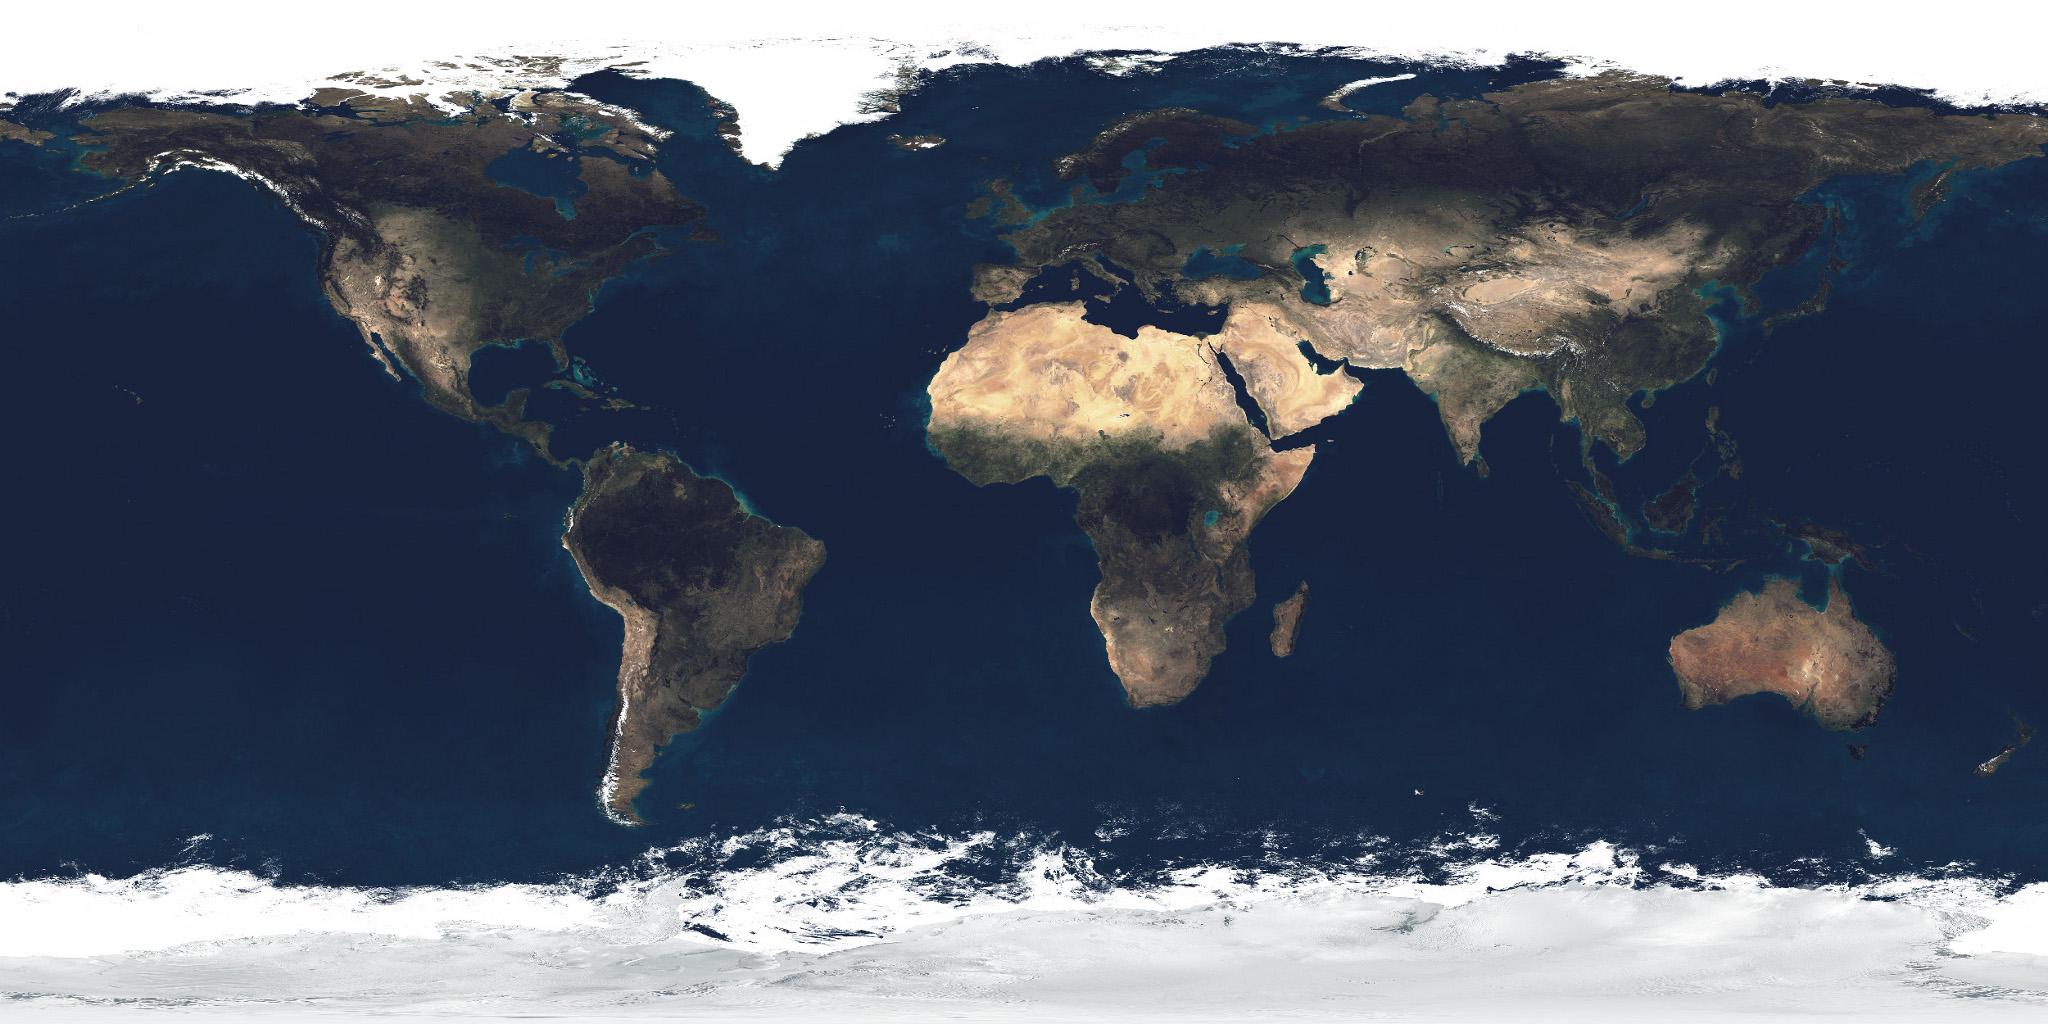
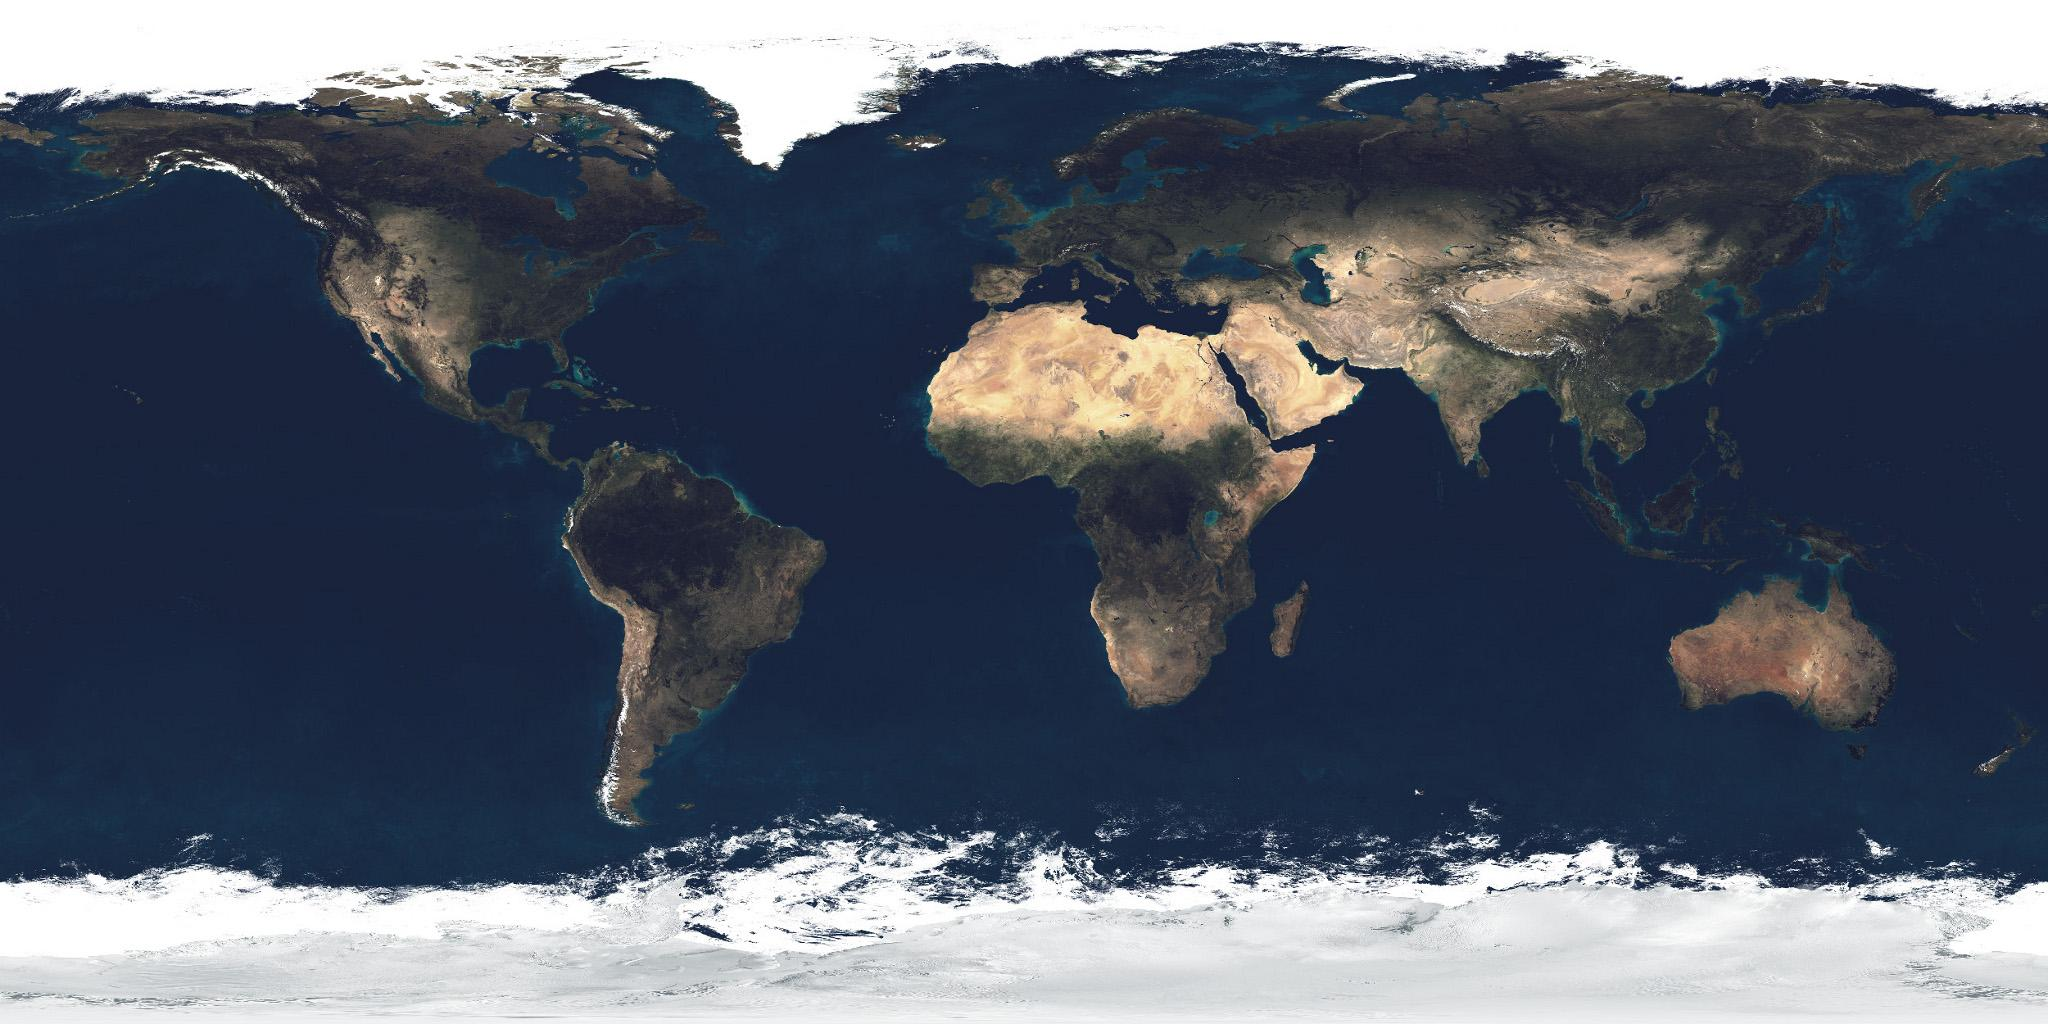
fix: instant 0ms procedural fallback texture, progressive NASA 2K satellite swap, and texture asset preloads

diff --git a/client/src/components/ui/InteractiveGlobe.tsx b/client/src/components/ui/InteractiveGlobe.tsx
@@ -52,6 +52,144 @@ function latLonToVector3(lat: number, lon: number, radius: number): THREE.Vector
   return new THREE.Vector3(x, y, z);
 }
 
+// Generate 0ms Instant Procedural Earth Canvas Texture (Frame 0 display - never an empty dark sphere!)
+function createInstantProceduralEarthTexture(): THREE.CanvasTexture {
+  const canvas = document.createElement('canvas');
+  canvas.width = 1024;
+  canvas.height = 512;
+  const ctx = canvas.getContext('2d')!;
+
+  // 1. Deep Ocean Base Gradient
+  const oceanGrad = ctx.createLinearGradient(0, 0, 0, 512);
+  oceanGrad.addColorStop(0, '#041226');
+  oceanGrad.addColorStop(0.5, '#082548');
+  oceanGrad.addColorStop(1, '#041226');
+  ctx.fillStyle = oceanGrad;
+  ctx.fillRect(0, 0, 1024, 512);
+
+  // 2. Latitude & Longitude Coordinate Graticule Grid
+  ctx.strokeStyle = 'rgba(56, 189, 248, 0.16)';
+  ctx.lineWidth = 1;
+  for (let x = 0; x <= 1024; x += 1024 / 12) {
+    ctx.beginPath();
+    ctx.moveTo(x, 0);
+    ctx.lineTo(x, 512);
+    ctx.stroke();
+  }
+  for (let y = 0; y <= 512; y += 512 / 12) {
+    ctx.beginPath();
+    ctx.moveTo(0, y);
+    ctx.lineTo(1024, y);
+    ctx.stroke();
+  }
+
+  // Equator & Prime Meridian highlight
+  ctx.strokeStyle = 'rgba(56, 189, 248, 0.35)';
+  ctx.lineWidth = 1.5;
+  ctx.beginPath();
+  ctx.moveTo(0, 256);
+  ctx.lineTo(1024, 256);
+  ctx.stroke();
+
+  // 3. Vector Continents
+  ctx.fillStyle = 'rgba(16, 185, 129, 0.32)';
+  ctx.strokeStyle = 'rgba(52, 211, 153, 0.75)';
+  ctx.lineWidth = 1.8;
+
+  // Eurasia & India Subcontinent
+  ctx.beginPath();
+  ctx.moveTo(490, 160);
+  ctx.lineTo(520, 130);
+  ctx.lineTo(590, 110);
+  ctx.lineTo(720, 100);
+  ctx.lineTo(840, 110);
+  ctx.lineTo(870, 150);
+  ctx.lineTo(840, 180);
+  ctx.lineTo(810, 230);
+  ctx.lineTo(765, 270);
+  ctx.lineTo(735, 240); // Bay of Bengal / India East
+  ctx.lineTo(753, 183); // Patna / Bihar / Himalayas
+  ctx.lineTo(715, 225); // Gujarat / India West
+  ctx.lineTo(665, 215); // Arabian Peninsula
+  ctx.lineTo(610, 190);
+  ctx.closePath();
+  ctx.fill();
+  ctx.stroke();
+
+  // Africa
+  ctx.beginPath();
+  ctx.moveTo(490, 210);
+  ctx.lineTo(590, 210);
+  ctx.lineTo(630, 260);
+  ctx.lineTo(580, 365);
+  ctx.lineTo(515, 345);
+  ctx.lineTo(460, 260);
+  ctx.closePath();
+  ctx.fill();
+  ctx.stroke();
+
+  // North America & Greenland
+  ctx.beginPath();
+  ctx.moveTo(175, 75);
+  ctx.lineTo(310, 75);
+  ctx.lineTo(345, 120);
+  ctx.lineTo(290, 175);
+  ctx.lineTo(260, 235);
+  ctx.lineTo(220, 255);
+  ctx.lineTo(190, 190);
+  ctx.lineTo(155, 130);
+  ctx.closePath();
+  ctx.fill();
+  ctx.stroke();
+
+  // South America
+  ctx.beginPath();
+  ctx.moveTo(230, 265);
+  ctx.lineTo(315, 295);
+  ctx.lineTo(285, 415);
+  ctx.lineTo(240, 365);
+  ctx.lineTo(220, 295);
+  ctx.closePath();
+  ctx.fill();
+  ctx.stroke();
+
+  // Australia
+  ctx.beginPath();
+  ctx.moveTo(800, 315);
+  ctx.lineTo(885, 315);
+  ctx.lineTo(875, 385);
+  ctx.lineTo(790, 375);
+  ctx.closePath();
+  ctx.fill();
+  ctx.stroke();
+
+  // Antarctica
+  ctx.beginPath();
+  ctx.moveTo(0, 480);
+  ctx.lineTo(1024, 480);
+  ctx.lineTo(1024, 512);
+  ctx.lineTo(0, 512);
+  ctx.closePath();
+  ctx.fill();
+  ctx.stroke();
+
+  // Bihar, India Glowing Target Pin on Procedural Texture (x: 753, y: 183)
+  ctx.fillStyle = '#22d3ee';
+  ctx.beginPath();
+  ctx.arc(753, 183, 4, 0, Math.PI * 2);
+  ctx.fill();
+
+  ctx.strokeStyle = 'rgba(34, 211, 238, 0.8)';
+  ctx.lineWidth = 1.5;
+  ctx.beginPath();
+  ctx.arc(753, 183, 10, 0, Math.PI * 2);
+  ctx.stroke();
+
+  const texture = new THREE.CanvasTexture(canvas);
+  texture.colorSpace = THREE.SRGBColorSpace;
+  return texture;
+}
+
 // 7 Verified Street-Level Campus Hotspots with Authentic Photographic Evidence
 const STREET_LEVEL_HOTSPOTS = [
   {
@@ -111,6 +249,7 @@ export default function InteractiveGlobe({ className = '' }: InteractiveGlobePro
   const [autoRotate, setAutoRotate] = useState(false);
   const [isZoomedIn, setIsZoomedIn] = useState(false);
   const [isFlying, setIsFlying] = useState(false);
+  const [nasaFeedStatus, setNasaFeedStatus] = useState<'instant' | 'ready'>('instant');
   const [flightTelemetry, setFlightTelemetry] = useState<{
     stage: string;
     altitude: string;
@@ -323,37 +462,51 @@ export default function InteractiveGlobe({ className = '' }: InteractiveGlobePro
     const earthRadius = 1.35;
     const textureLoader = new THREE.TextureLoader();
 
-    // 4. Real NASA Blue Marble High-Resolution Earth Map
-    const earthDayTexture = textureLoader.load('/assets/earth_daymap.jpg', () => {
-      renderer.render(scene, camera);
-    });
-    earthDayTexture.colorSpace = THREE.SRGBColorSpace;
+    // 4. Instant 0ms Procedural Earth Texture (Frame 0 display - never blank/black!)
+    const instantProceduralTexture = createInstantProceduralEarthTexture();
 
     const earthGeometry = new THREE.SphereGeometry(earthRadius, 64, 64);
     const earthMaterial = new THREE.MeshPhongMaterial({
-      map: earthDayTexture,
+      map: instantProceduralTexture,
       shininess: 22,
       specular: new THREE.Color(0x38bdf8),
-      emissive: new THREE.Color(0x030816),
-      emissiveIntensity: 0.25,
+      emissive: new THREE.Color(0x040e20),
+      emissiveIntensity: 0.35,
     });
 
     const earthMesh = new THREE.Mesh(earthGeometry, earthMaterial);
     globeGroup.add(earthMesh);
 
-    // 5. Photorealistic Cloud Mesh Layer
-    const cloudsTexture = textureLoader.load('/assets/earth_clouds.png');
+    // Progressive upgrade to full-resolution NASA Blue Marble satellite map
+    let loadedEarthTexture: THREE.Texture | null = null;
+    textureLoader.load('/assets/earth_daymap.jpg', (loadedTexture) => {
+      loadedEarthTexture = loadedTexture;
+      loadedTexture.colorSpace = THREE.SRGBColorSpace;
+      earthMaterial.map = loadedTexture;
+      earthMaterial.needsUpdate = true;
+      setNasaFeedStatus('ready');
+      renderer.render(scene, camera);
+    });
+
+    // 5. Photorealistic Cloud Mesh Layer (Fades in when loaded)
+    let loadedCloudsTexture: THREE.Texture | null = null;
     const cloudsGeometry = new THREE.SphereGeometry(earthRadius * 1.012, 64, 64);
     const cloudsMaterial = new THREE.MeshPhongMaterial({
-      map: cloudsTexture,
       transparent: true,
-      opacity: 0.4,
+      opacity: 0,
       blending: THREE.AdditiveBlending,
       depthWrite: false,
     });
     const cloudsMesh = new THREE.Mesh(cloudsGeometry, cloudsMaterial);
     cloudsMeshRef.current = cloudsMesh;
     globeGroup.add(cloudsMesh);
+
+    textureLoader.load('/assets/earth_clouds.png', (loadedClouds) => {
+      loadedCloudsTexture = loadedClouds;
+      cloudsMaterial.map = loadedClouds;
+      cloudsMaterial.opacity = 0.42;
+      cloudsMaterial.needsUpdate = true;
+    });
 
     // 6. Atmospheric Scattering Outer Glow Layer (Fresnel Halo)
     const atmosphereGeometry = new THREE.SphereGeometry(earthRadius * 1.055, 64, 64);
@@ -577,10 +730,11 @@ export default function InteractiveGlobe({ className = '' }: InteractiveGlobePro
 
       earthGeometry.dispose();
       earthMaterial.dispose();
-      earthDayTexture.dispose();
+      instantProceduralTexture.dispose();
       cloudsGeometry.dispose();
       cloudsMaterial.dispose();
-      cloudsTexture.dispose();
+      if (loadedCloudsTexture) (loadedCloudsTexture as THREE.Texture).dispose();
+      if (loadedEarthTexture) (loadedEarthTexture as THREE.Texture).dispose();
       starGeometry.dispose();
       starMaterial.dispose();
       starTexture.dispose();
@@ -745,10 +899,22 @@ export default function InteractiveGlobe({ className = '' }: InteractiveGlobePro
         </button>
       </div>
 
-      {/* Top Left Hint */}
-      <div className="absolute top-3 left-3 hidden md:flex items-center gap-2 rounded-full border border-white/10 bg-black/70 px-3.5 py-1.5 font-mono text-[10px] text-zinc-300 backdrop-blur-md pointer-events-none z-10">
-        <Compass className="h-3.5 w-3.5 text-cyan-400" />
-        <span>3D EARTH SPHERE • TWINKLING STARFIELD • CLICK ZOOM TO LAND AT CAMPUS</span>
+      {/* Top Left Live Satellite Telemetry Status */}
+      <div className="absolute top-3 left-3 flex items-center gap-2 rounded-full border border-white/10 bg-black/75 px-3 py-1.5 font-mono text-[10px] text-zinc-300 backdrop-blur-md pointer-events-none z-10">
+        <Compass className="h-3.5 w-3.5 text-cyan-400 shrink-0" />
+        <span className="hidden sm:inline">3D EARTH SPHERE</span>
+        <span className="text-zinc-600 hidden sm:inline">•</span>
+        {nasaFeedStatus === 'ready' ? (
+          <span className="inline-flex items-center gap-1.5 text-emerald-400 font-bold">
+            <span className="h-1.5 w-1.5 rounded-full bg-emerald-400 animate-pulse" />
+            <span>NASA 2K SATELLITE ACTIVE</span>
+          </span>
+        ) : (
+          <span className="inline-flex items-center gap-1.5 text-cyan-300 font-semibold">
+            <span className="h-1.5 w-1.5 rounded-full bg-cyan-400 animate-ping" />
+            <span>SYNCING NASA SATELLITE...</span>
+          </span>
+        )}
       </div>
 
       {/* STREET-LEVEL CAMPUS VIEW (Smoothly Unlocks When Zoom Reaches Surface) */}

diff --git a/client/index.html b/client/index.html
@@ -20,6 +20,8 @@
       href="https://fonts.googleapis.com/css2?family=Inter:wght@300;400;500;600;700&family=Space+Grotesk:wght@400;500;600;700&display=swap"
       rel="stylesheet"
     />
+    <link rel="preload" as="image" href="/assets/earth_daymap.jpg" />
+    <link rel="preload" as="image" href="/assets/nsit-seal.png" />
   </head>
   <body>
     <div id="root"></div>
